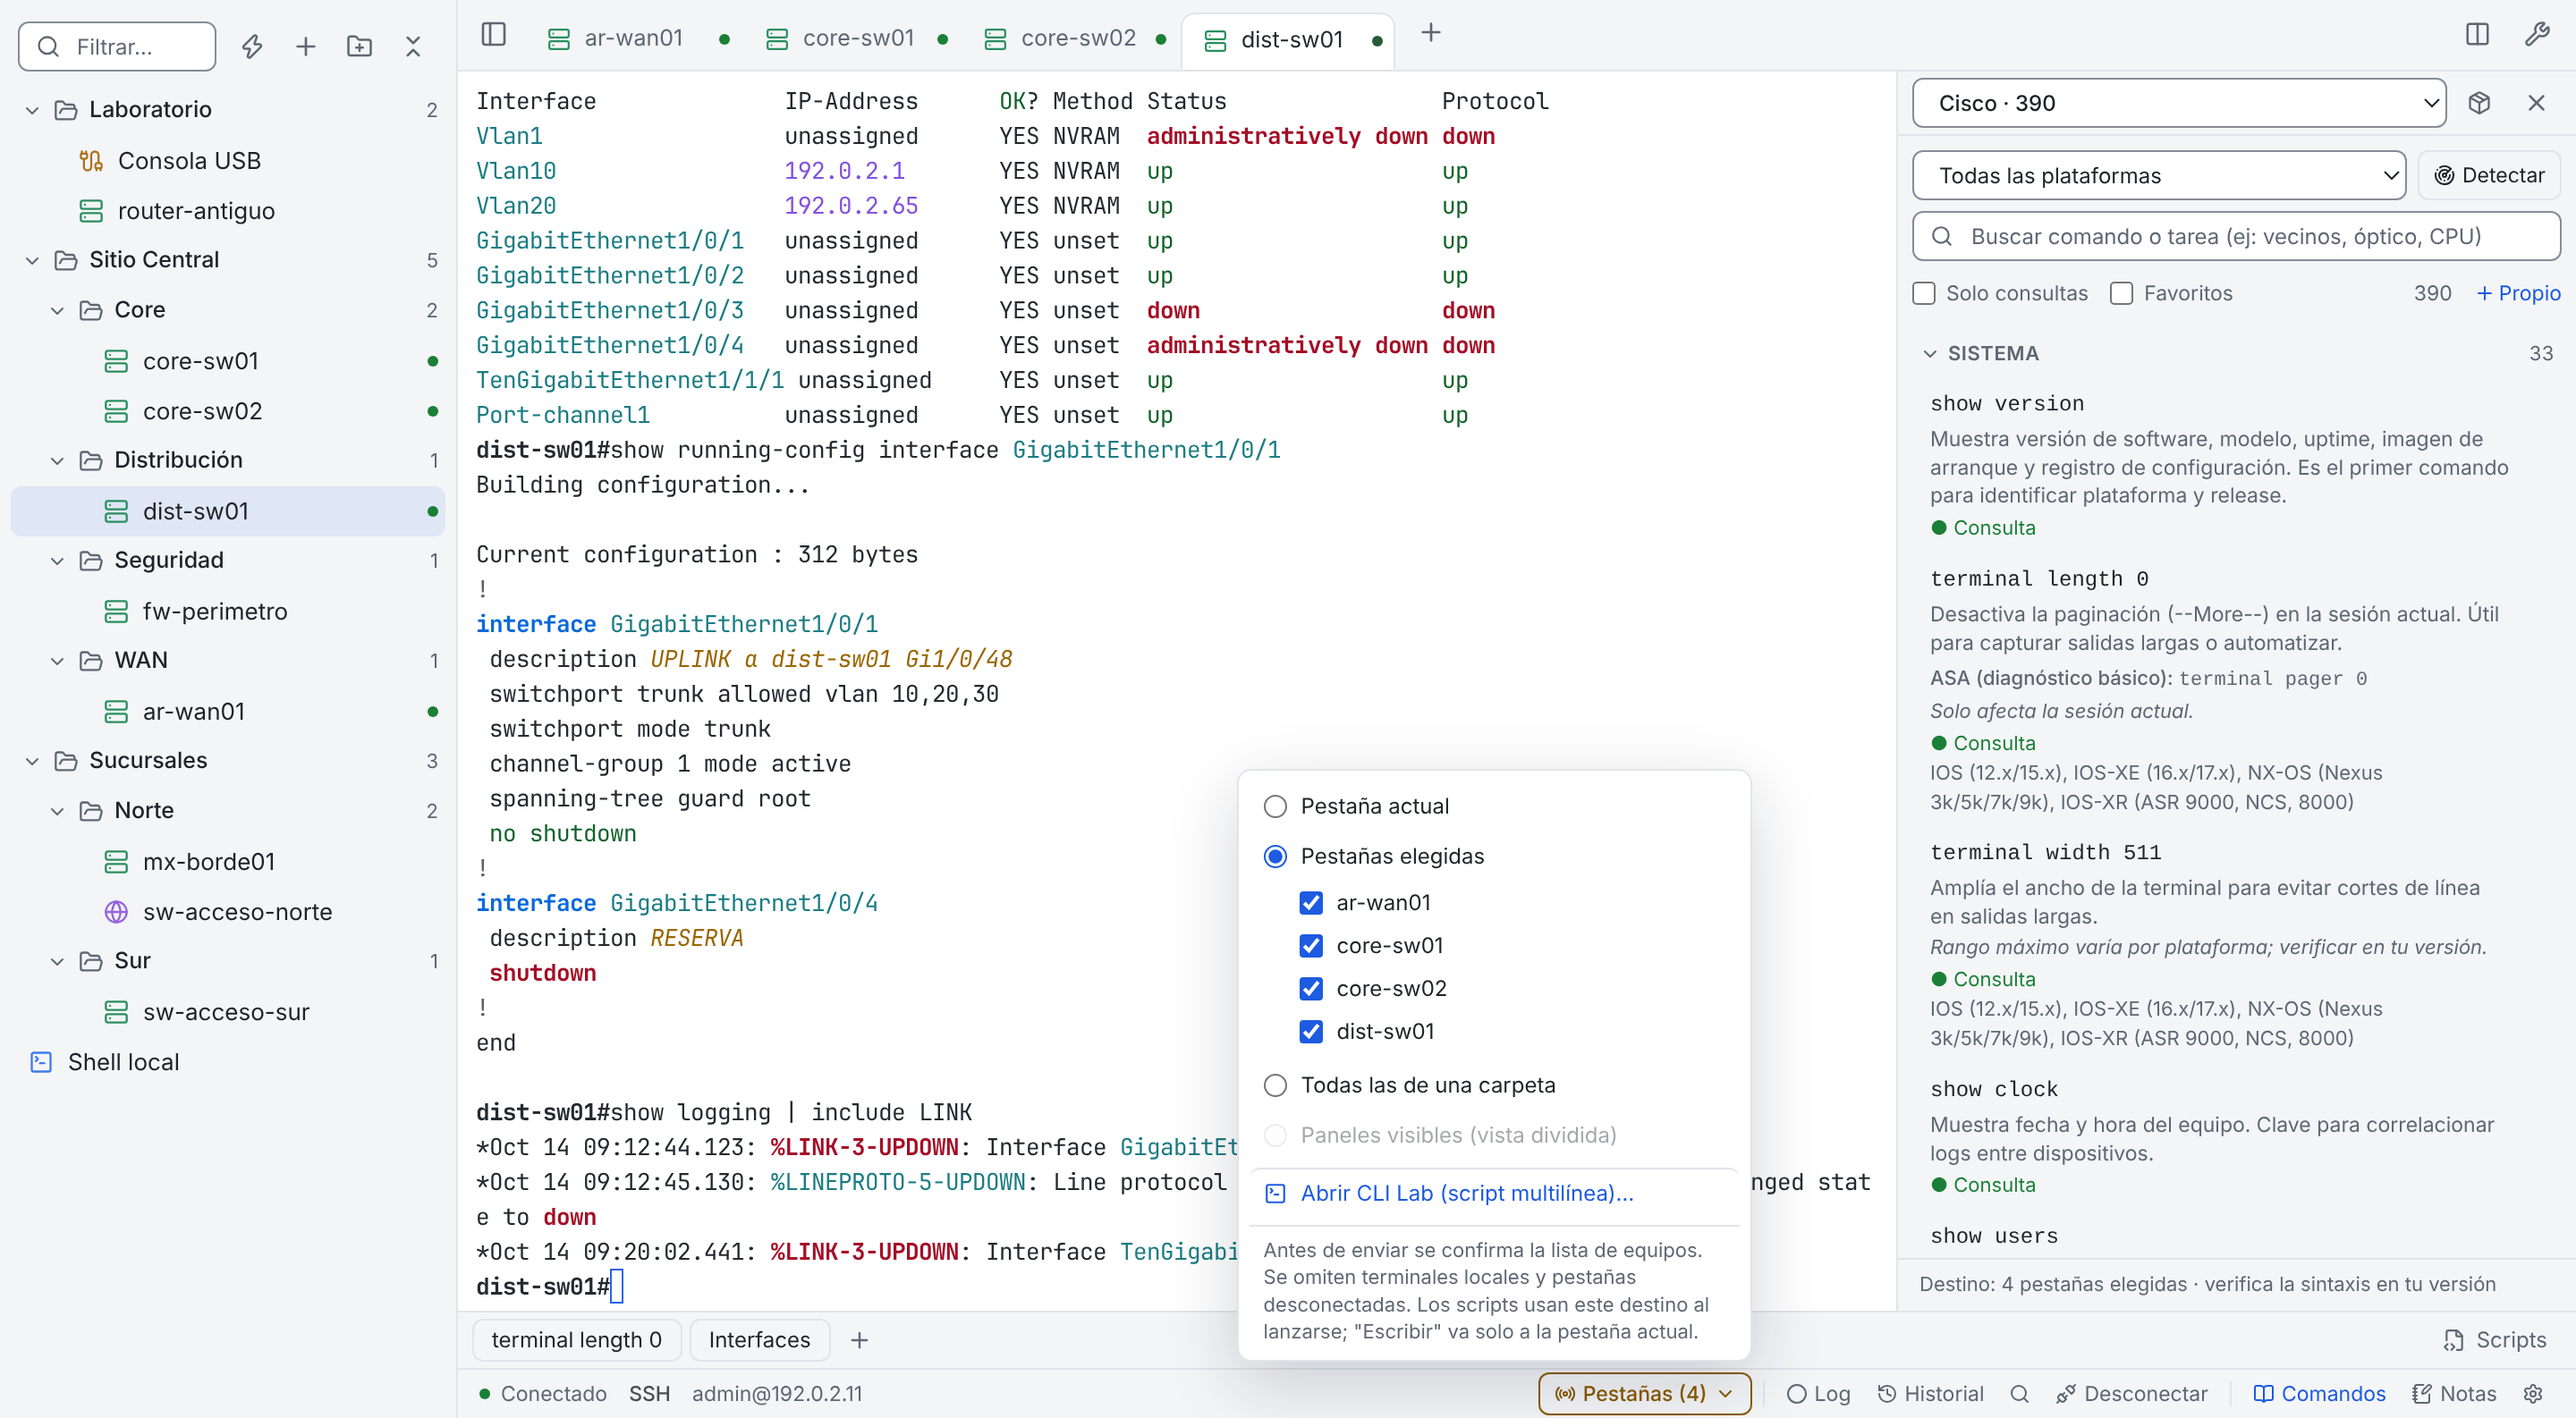
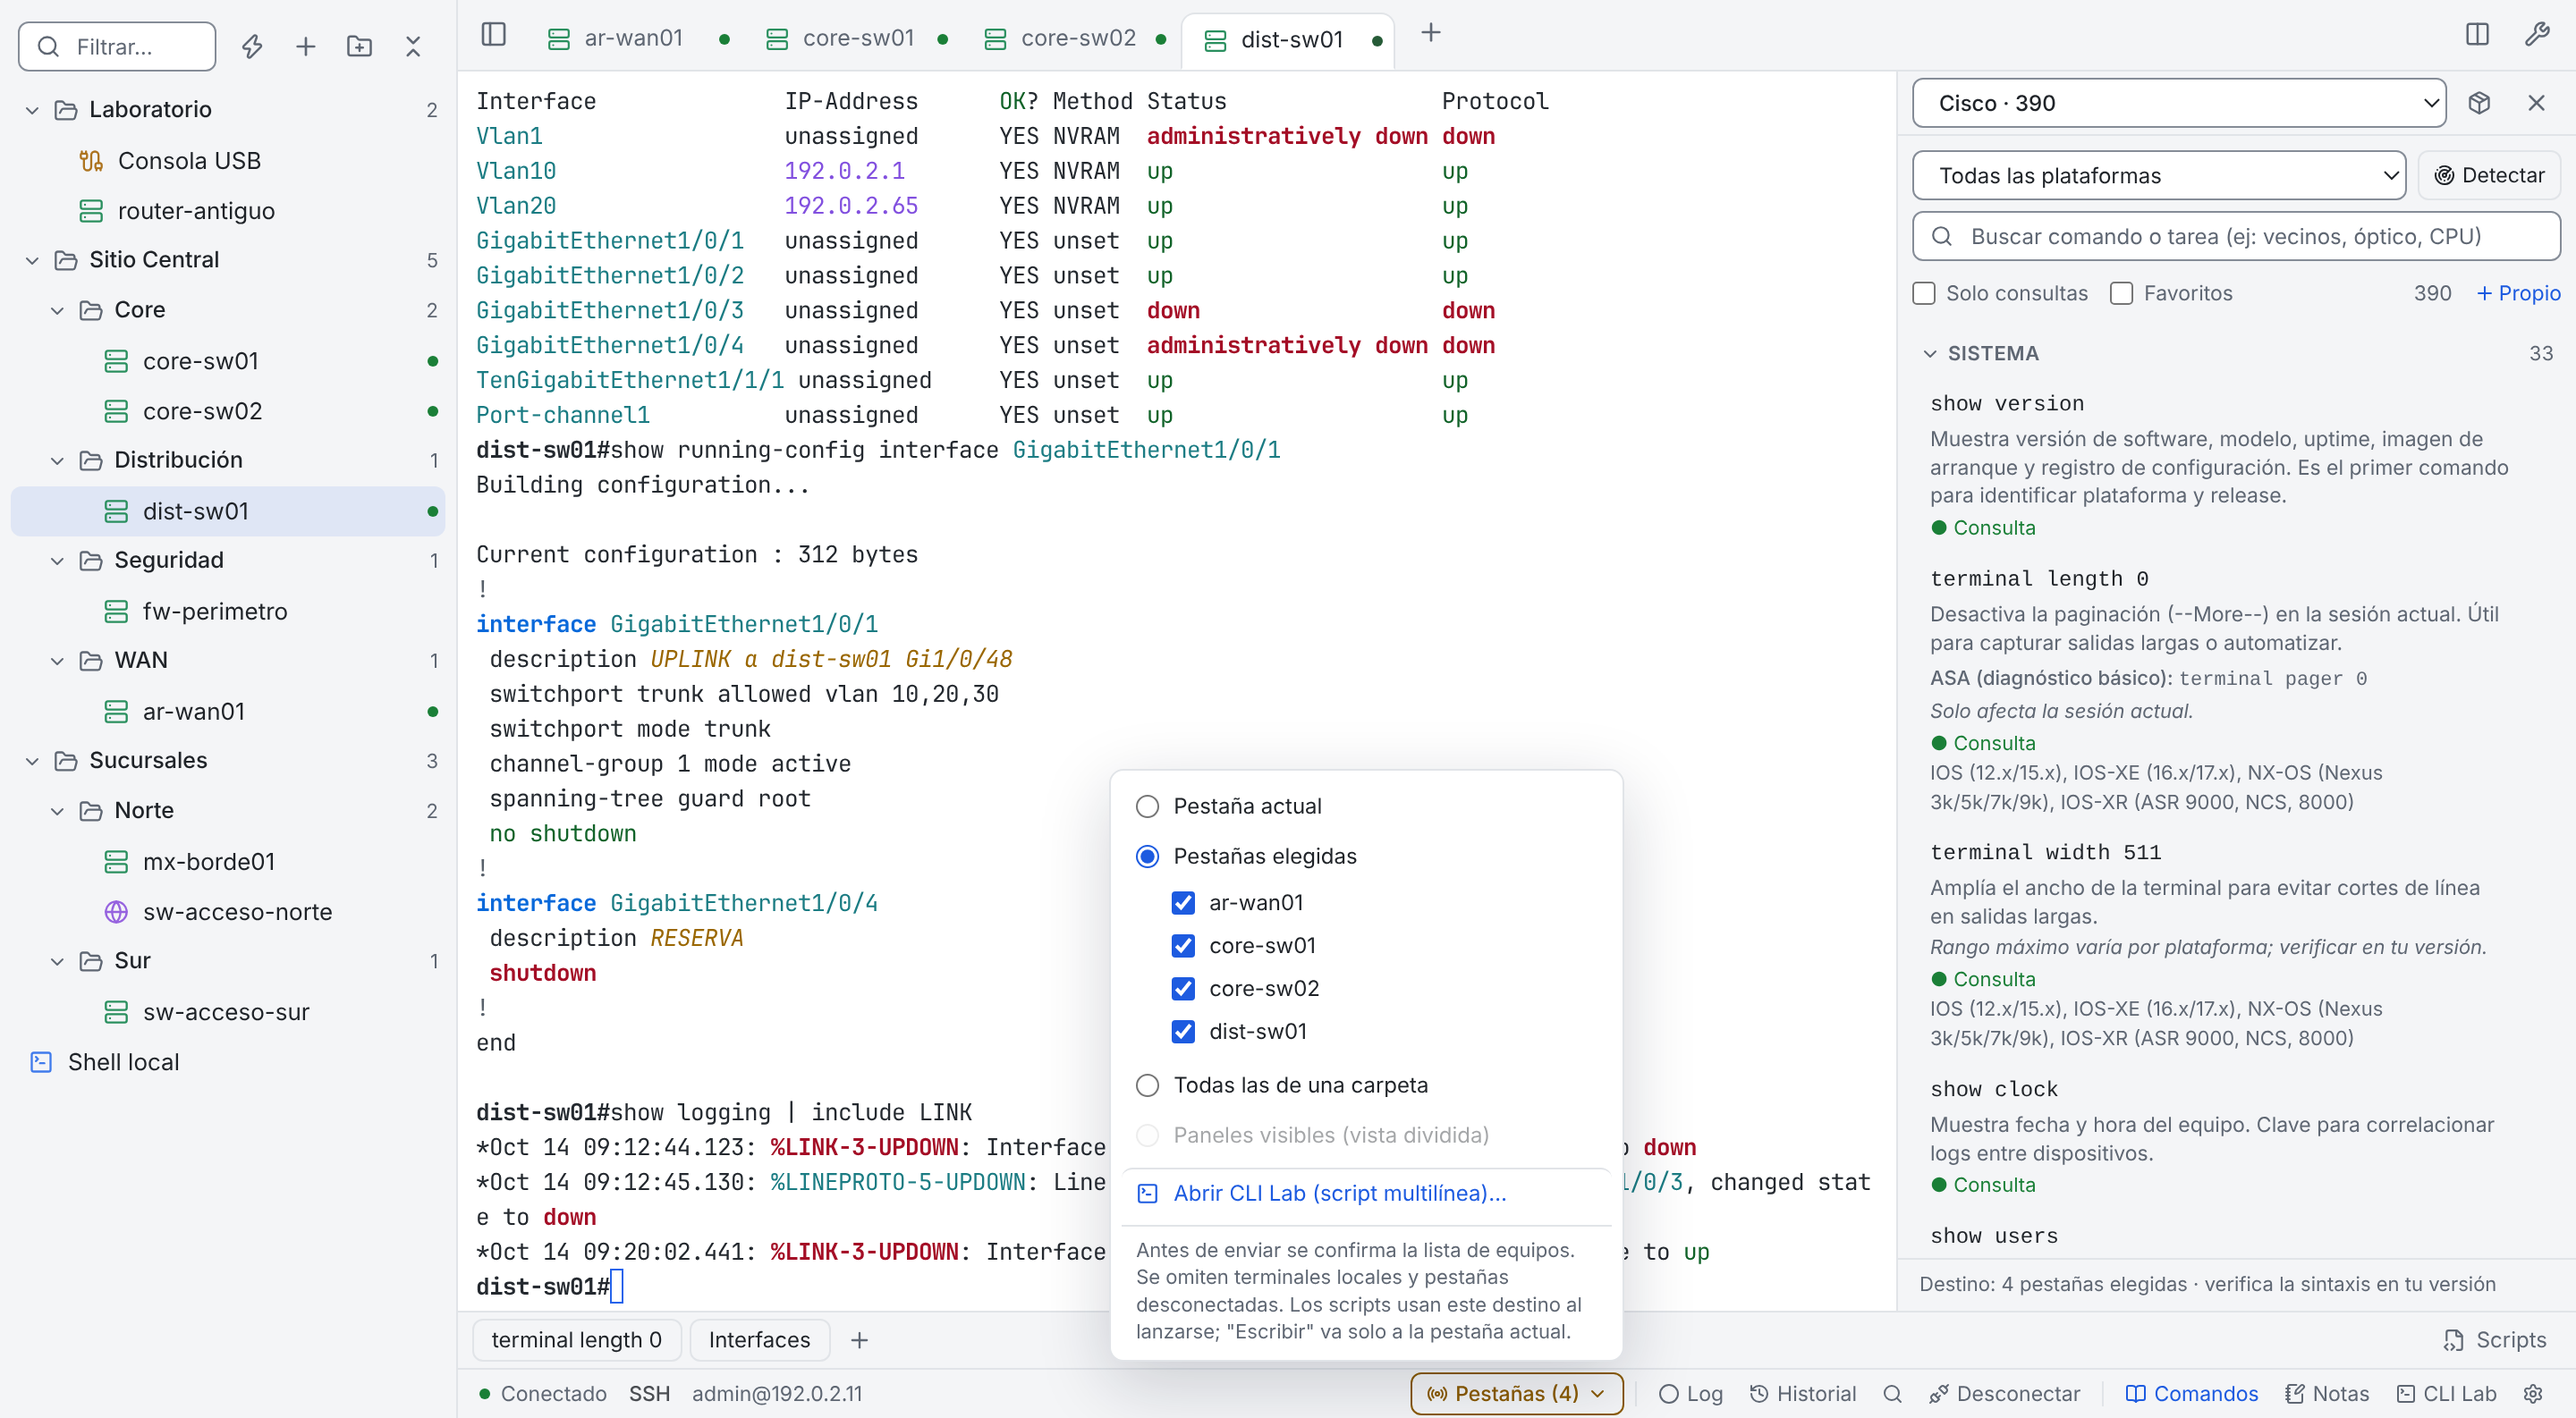
Usabilidad: atajo del CLI Lab, fondo de diálogos en oscuro y barras angostas
- CLI Lab con atajo ⌘I / Ctrl+Shift+I (también en la paleta y en el tooltip),
  botón en el pie de Notas junto a "Todo", ejemplo del editor en cursiva y
  atenuado, y motivo cuando "Ejecutar" está deshabilitado.
- Modo oscuro: el fondo de los diálogos se oscurece al 60 % (al 25 % no se
  distinguía de la interfaz).
- Barra de estado angosta: Comandos, Notas y CLI Lab mantienen su texto, el
  avance del Lab se ve siempre y el destino dice "Actual".
- Notas: los botones del pie pasan a una segunda fila en vez de partir el
  texto. Herramientas no muestra la barra de botones (no hay terminal).
- Ajustes: "Restablecer valores" con estilo de botón y nombre completo del
  tema al pasar el mouse. Packs: sin repetir el fabricante.

Claude-Session: https://claude.ai/code/session_01LZm5smYBDTDfaAPY2jGg55

Changed region(s): [[0.4375, 0.5561, 0.9688, 1.0]]

diff --git a/src/components/StatusBar.tsx b/src/components/StatusBar.tsx
@@ -27,6 +27,8 @@ import { isMac, modLabel } from "../lib/platform";
 /** Etiquetas de botones: con la barra angosta (ventana mínima o vista con barra lateral) solo
  *  queda el icono y el title; antes los últimos botones se salían de la ventana. */
 const LBL = "hidden @[52rem]:inline";
+/** Herramientas (Comandos, Notas, CLI Lab): su texto se mantiene hasta ventanas más angostas. */
+const TOOL_LBL = "hidden @[44rem]:inline";
 
 const statusText = { connecting: "Conectando", connected: "Conectado", closed: "Desconectado" };
 
@@ -82,11 +84,11 @@ export const StatusBar = memo(function StatusBar({
       )}
       <BarBtn onClick={onCommands} title={`Catálogo de comandos (${modLabel}L)`} className={commandsOpen ? "!text-accent" : ""}>
         <BookOpen size={12} />
-        <span className={LBL}>Comandos</span>
+        <span className={TOOL_LBL}>Comandos</span>
       </BarBtn>
       <BarBtn onClick={onNotes} title={`Notas (${modLabel}J)`} className={notesOpen ? "!text-accent" : ""}>
         <NotebookPen size={12} />
-        <span className={LBL}>Notas</span>
+        <span className={TOOL_LBL}>Notas</span>
       </BarBtn>
       <LabBtn />
       <BarBtn onClick={onSettings} title={`Ajustes (${isMac ? "⌘" : "Ctrl+"},)`}>
@@ -198,12 +200,14 @@ const LabBtn = memo(function LabBtn() {
           ? `CLI Lab ejecutando: ${done}/${run.items.length} equipos terminados`
           : run
             ? `CLI Lab: ${run.items.length - failed} de ${run.items.length} equipos OK${failed ? `, ${failed} con error` : ""}`
-            : "CLI Lab: script de varias líneas en el destino elegido, leyendo cada respuesta"
+            : `CLI Lab (${modLabel}I): script de varias líneas en el destino elegido, leyendo cada respuesta`
       }
       className={tone}
     >
       <SquareTerminal size={12} className={run?.running ? "animate-pulse" : ""} />
-      <span className={LBL}>CLI Lab{run?.running ? ` ${done}/${run.items.length}` : ""}</span>
+      <span className={TOOL_LBL}>CLI Lab</span>
+      {/* El avance se ve también cuando la barra solo muestra íconos. */}
+      {run?.running && <span className="tabular-nums">{done}/{run.items.length}</span>}
     </BarBtn>
   );
 });

diff --git a/src/components/NotesPanel.tsx b/src/components/NotesPanel.tsx
@@ -701,12 +701,24 @@ export const NotesPanel = memo(function NotesPanel(p: Props) {
       )}
 
       <footer className="border-t border-line px-2 py-1.5 space-y-1">
-        <div className="flex items-center gap-1">
+        {/* En un panel angosto los botones bajan a una segunda fila en vez de partir su texto. */}
+        <div className="flex flex-wrap items-center gap-1">
           <FootBtn onClick={sendSelectionOrLine} disabled={!p.target || locked} title={`${isMac ? "⌘" : "Ctrl+"}Enter`}>
             <SendHorizontal size={13} /> Línea / selección
           </FootBtn>
           <FootBtn onClick={() => p.onSend(content)} disabled={!p.target || locked || !content.trim()} title={`${isMac ? "⌘⇧" : "Ctrl+Shift+"}Enter`}>
             <Send size={13} /> Todo
+          </FootBtn>
+          <FootBtn
+            onClick={() => {
+              const ta = editorRef.current;
+              if (ta && ta.selectionEnd > ta.selectionStart) openLab(content.slice(ta.selectionStart, ta.selectionEnd));
+              else openLab(content, current ?? undefined);
+            }}
+            disabled={locked || !content.trim()}
+            title="Ejecutar en el CLI Lab: línea a línea, leyendo cada respuesta y deteniéndose al primer error"
+          >
+            <SquareTerminal size={13} /> CLI Lab
           </FootBtn>
           <FootBtn onClick={capture} disabled={locked} title="Agregar a la nota el texto seleccionado en la terminal">
             <ArrowDownToLine size={13} /> Capturar
@@ -756,7 +768,7 @@ function FootBtn(props: React.ButtonHTMLAttributes<HTMLButtonElement>) {
   return (
     <button
       {...props}
-      className="flex items-center gap-1.5 px-2 h-7 rounded-md text-[12px] text-muted hover:text-fg hover:bg-hover disabled:opacity-40 disabled:hover:bg-transparent"
+      className="shrink-0 whitespace-nowrap flex items-center gap-1.5 px-2 h-7 rounded-md text-[12px] text-muted hover:text-fg hover:bg-hover disabled:opacity-40 disabled:hover:bg-transparent"
     />
   );
 }

diff --git a/src/components/CliLab.tsx b/src/components/CliLab.tsx
@@ -14,6 +14,7 @@ import { runOnDeviceResult } from "../lib/deviceRun";
 import { isSecretVar } from "../lib/templateSecrets";
 import { useDragResize } from "../lib/useDragResize";
 import { fontStack } from "../lib/theme";
+import { isMac } from "../lib/platform";
 import { persist, stored } from "../lib/prefs";
 import { tabTitle } from "../types";
 import { plural } from "../lib/plural";
@@ -298,7 +299,7 @@ export function CliLab(p: Props) {
                 + Guardar config{saveCmd ? ` (${saveCmd})` : ""}
               </button>
               <span className="flex-1" />
-              <span>{`Ctrl/⌘+Enter ejecuta`}</span>
+              <span>{`${isMac ? "⌘" : "Ctrl+"}Enter ejecuta`}</span>
             </div>
             {vars.length > 0 && (
               <div className="shrink-0 px-3 pb-2 grid gap-2" style={{ gridTemplateColumns: "repeat(auto-fill, minmax(180px, 1fr))" }}>
@@ -405,6 +406,7 @@ export function CliLab(p: Props) {
                 <button
                   onClick={execute}
                   disabled={!lines.length || n === 0}
+                  title={!lines.length ? "Escribe al menos un comando" : n === 0 ? "Ninguna sesión conectada en el destino elegido" : undefined}
                   className="w-full flex items-center justify-center gap-1.5 h-9 rounded-md bg-accent text-accent-fg font-medium hover:opacity-90 disabled:opacity-40"
                 >
                   <Play size={13} /> Ejecutar en {plural(n, "equipo", "equipos")}

diff --git a/src/App.tsx b/src/App.tsx
@@ -906,6 +906,8 @@ function Workspace({
           return setModal({});
         case "quickConnect":
           return setQuickOpen(true);
+        case "cliLab":
+          return openLab();
         case "toggleSidebar":
           return setSidebarOpen((o) => !o);
         case "find":
@@ -1413,7 +1415,8 @@ function Workspace({
         )}
         </div>
 
-        {settings.showButtonBar && (
+        {/* En Herramientas no hay terminal a la que enviar: la barra solo ocuparía espacio. */}
+        {settings.showButtonBar && activeId !== "tools" && (
           <ButtonBar
             macros={settings.macros}
             connected={activeConnected || broadcastMode}
@@ -1612,6 +1615,7 @@ function Workspace({
             {
               label: "CLI Lab: script multilínea",
               detail: "Ejecuta varios comandos en orden en una o varias sesiones, leyendo cada respuesta",
+              shortcut: `${modLabel}I`,
               run: () => openLab(),
             },
             {

diff --git a/src/components/SettingsModal.tsx b/src/components/SettingsModal.tsx
@@ -553,7 +553,7 @@ export function SettingsModal({
             <button
               onClick={() => setConfirmReset(true)}
               title="Las reglas de resaltado personalizadas se conservan"
-              className="text-[12px] text-muted hover:text-danger"
+              className="px-2.5 h-7 rounded-md border border-line text-[12px] text-muted hover:text-danger hover:border-danger"
             >
               Restablecer valores
             </button>
@@ -892,7 +892,7 @@ function ThemeCard({
         </div>
       </div>
       <div className="flex items-center justify-between px-2.5 h-7 text-[12px]">
-        <span className="truncate">
+        <span className="truncate" title={hint ? `${preset.name} · ${hint}` : preset.name}>
           {preset.name}
           {hint && <span className="text-muted"> · {hint}</span>}
         </span>

diff --git a/src/components/BroadcastTarget.tsx b/src/components/BroadcastTarget.tsx
@@ -66,7 +66,17 @@ export const BroadcastTargetPicker = memo(function BroadcastTargetPicker() {
         }`}
       >
         {multi && <Radio size={12} />}
-        <span className="max-w-[140px] truncate">{multi ? `${shortLabel} (${count})` : "Pestaña actual"}</span>
+        <span className="max-w-[90px] @[52rem]:max-w-[140px] truncate">
+          {multi ? (
+            `${shortLabel} (${count})`
+          ) : (
+            <>
+              {/* Barra angosta: "Actual" deja lugar a las etiquetas de las herramientas. */}
+              <span className="@[52rem]:hidden">Actual</span>
+              <span className="hidden @[52rem]:inline">Pestaña actual</span>
+            </>
+          )}
+        </span>
         <ChevronDown size={12} />
       </button>
       {open && (

diff --git a/src/components/PacksModal.tsx b/src/components/PacksModal.tsx
@@ -192,7 +192,8 @@ export function PacksModal({ packs, disabled, onToggle, onChanged, onClose }: Pr
                           <span className="truncate">{p.name}</span>
                         </div>
                         <div className="text-[11.5px] text-muted truncate">
-                          {p.vendorName} · {p.commands.length} comandos{p.version ? ` · v${p.version}` : ""}
+                          {p.name.startsWith(p.vendorName) ? "" : `${p.vendorName} · `}
+                          {p.commands.length} comandos{p.version ? ` · v${p.version}` : ""}
                           {p.author ? ` · ${p.author}` : ""}
                         </div>
                       </div>

diff --git a/src/App.css b/src/App.css
@@ -170,6 +170,15 @@ button {
 .code-editor::placeholder {
   -webkit-text-fill-color: var(--muted);
   color: var(--muted);
+  opacity: 0.6;
+  font-style: italic;
+}
+
+/* Fondo de los diálogos: sobre la interfaz oscura un negro al 25 % no se distingue. */
+:root[data-theme="dark"] .bg-black\/25,
+:root[data-theme="dark"] .bg-black\/30,
+:root[data-theme="dark"] .bg-black\/35 {
+  background-color: rgb(0 0 0 / 0.6);
 }
 
 /* Topología: trazo animado en el sentido del tráfico. Solo stroke-dashoffset en CSS (sin renders

diff --git a/src/lib/platform.ts b/src/lib/platform.ts
@@ -25,6 +25,7 @@ export type AppAction =
   | "closeAll"
   | "newSession"
   | "quickConnect"
+  | "cliLab"
   | "toggleSidebar"
   | "find"
   | "nextTab"
@@ -82,6 +83,8 @@ export function shortcutFor(e: KeyboardEvent): AppAction | null {
       return "tools";
     case "l":
       return "commands";
+    case "i":
+      return "cliLab";
     case "f":
       return "find";
     default:

diff --git a/README.md b/README.md
@@ -82,6 +82,7 @@ Las capturas usan datos ficticios. Hay más en la [página del producto](https:/
 | Nueva sesión | ⌘N | Ctrl+Shift+N |
 | Catálogo de comandos | ⌘L | Ctrl+Shift+L |
 | Notas | ⌘J | Ctrl+Shift+J |
+| CLI Lab | ⌘I | Ctrl+Shift+I |
 | Herramientas | ⌘E | Ctrl+Shift+E |
 | Buscar en la salida | ⌘F | Ctrl+Shift+F |
 | Copiar / pegar | ⌘C / ⌘V | Ctrl+Shift+C / Ctrl+Shift+V |

diff --git a/docs/TECNICO.md b/docs/TECNICO.md
@@ -108,6 +108,7 @@ Construido con [Tauri 2](https://tauri.app) (backend en Rust) y xterm.js. Usa el
 | --- | --- | --- |
 | Ajustes | ⌘, | Ctrl+, |
 | Notas | ⌘J | Ctrl+Shift+J |
+| CLI Lab | ⌘I | Ctrl+Shift+I |
 | Catálogo de comandos | ⌘L | Ctrl+Shift+L |
 | Herramientas | ⌘E | Ctrl+Shift+E |
 | Duplicar pestaña | ⌘D | Ctrl+Shift+D |
